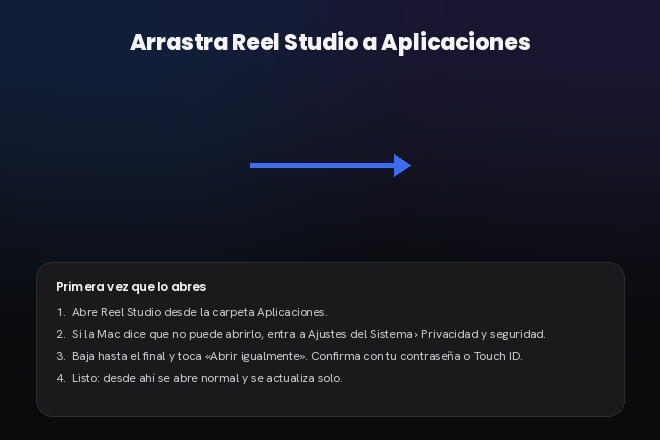
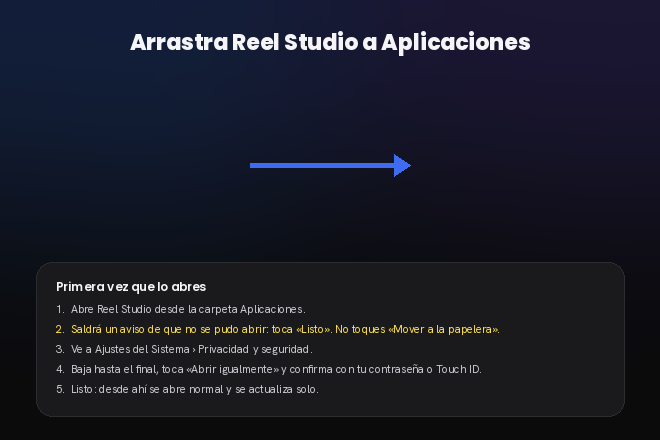
Instrucciones del DMG: tocar «Listo», no «Mover a la papelera»
Claude-Session: https://claude.ai/code/session_01WwnLC8JChWTrTopqmGdkWC

Changed region(s): [[0.0909, 0.6795, 0.8182, 0.9159]]

diff --git a/mac/dmg/fondo.py b/mac/dmg/fondo.py
@@ -37,13 +37,14 @@ def make(scale: int, out: Path):
     d.rounded_rectangle(box, radius=s(16), fill="#1A1A1D", outline="#2C2C31", width=max(1, s(1)))
     d.text((s(56), s(278)), "Primera vez que lo abres", font=semi, fill="#F5F5F7")
     steps = [
-        "1.  Abre Reel Studio desde la carpeta Aplicaciones.",
-        "2.  Si la Mac dice que no puede abrirlo, entra a Ajustes del Sistema › Privacidad y seguridad.",
-        "3.  Baja hasta el final y toca «Abrir igualmente». Confirma con tu contraseña o Touch ID.",
-        "4.  Listo: desde ahí se abre normal y se actualiza solo.",
+        ("1.  Abre Reel Studio desde la carpeta Aplicaciones.", "#C9CBD0"),
+        ("2.  Saldrá un aviso de que no se pudo abrir: toca «Listo». No toques «Mover a la papelera».", "#FFE14D"),
+        ("3.  Ve a Ajustes del Sistema › Privacidad y seguridad.", "#C9CBD0"),
+        ("4.  Baja hasta el final, toca «Abrir igualmente» y confirma con tu contraseña o Touch ID.", "#C9CBD0"),
+        ("5.  Listo: desde ahí se abre normal y se actualiza solo.", "#C9CBD0"),
     ]
-    for i, t in enumerate(steps):
-        d.text((s(56), s(304) + i * s(22)), t, font=body, fill="#C9CBD0")
+    for i, (t, col) in enumerate(steps):
+        d.text((s(56), s(302) + i * s(20)), t, font=small, fill=col)
     img.save(out)
 
 
